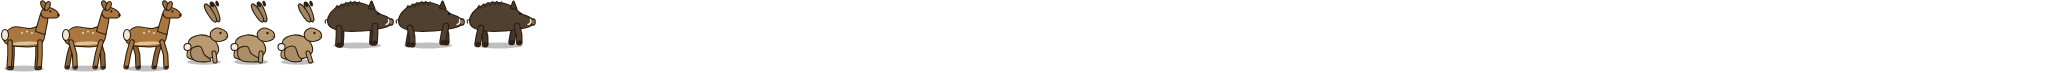
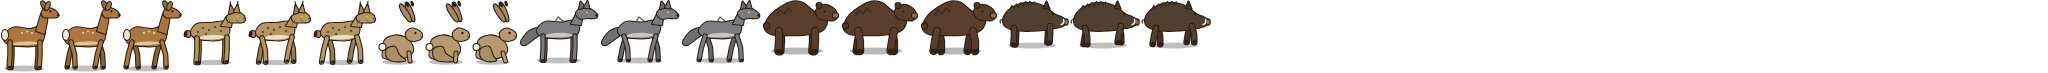
m15: wolf, bear and lynx sprites (phase 23e, art)

Changed region(s): [[0.0625, 0.0, 0.5938, 0.9041]]

diff --git a/art/src/animals/animals.ts b/art/src/animals/animals.ts
@@ -1,8 +1,8 @@
-/** Deer, boar and hare in profile, facing east, with a four-frame walk. */
+/** Deer, boar, hare, and the three hunters (wolf, bear, lynx) in profile, facing east, with a four-frame walk. */
 import { at, ell, INK, limb, poly, shade, shape, smooth, stroke, type Pt } from '../lib/draw.ts';
 
-export type AnimalKind = 'deer' | 'boar' | 'hare';
-export const ANIMAL_KINDS: readonly AnimalKind[] = ['deer', 'boar', 'hare'];
+export type AnimalKind = 'deer' | 'boar' | 'hare' | 'wolf' | 'bear' | 'lynx';
+export const ANIMAL_KINDS: readonly AnimalKind[] = ['deer', 'boar', 'hare', 'wolf', 'bear', 'lynx'];
 
 export function paintAnimal(kind: AnimalKind, frame: number, walking: boolean): string {
   const sw = walking ? [0, 1, 0, -1][frame] : 0;
@@ -58,6 +58,55 @@ export function paintAnimal(kind: AnimalKind, frame: number, walking: boolean): 
     out.push(ell(68.5, 52, 1.1, 1.2, INK));
     out.push(ell(74, 55.6, 0.9, 0.7, '#6b4a3a'));
     out.push(ell(35.5, 66, 3, 3, '#f3ece0', line));
+  }
+  if (kind === 'wolf') {
+    const col = '#7b7d80', belly = '#c9c7c0';
+    out.push(ell(48, 84.5, 22, 3, 'rgba(0,0,0,0.25)'));
+    out.push(legs([[34, 60], [62, 60]], 24, 3.2, col, true, 17));
+    // The brush, carried low.
+    out.push(shape(smooth([[27, 52], [17, 56], [10, 66], [14, 69], [24, 62], [30, 57]]), shade(col, 0.9), line));
+    out.push(shape(smooth([[26, 54], [34, 46], [50, 46.5], [62, 44.5], [68, 49], [66, 58], [56, 62], [40, 62], [30, 60]]), col, line));
+    out.push(shape(smooth([[34, 60.5], [48, 61.5], [62, 59.5], [54, 57], [40, 57.5]]), belly));
+    out.push(stroke('M44,46L47,41L52,45', shade(col, 0.7), 1.3));
+    out.push(shape(poly([[60, 48], [66, 36], [72, 36.5], [70, 49]]), col, line));
+    out.push(shape(smooth([[65, 37], [72, 31], [80, 33.5], [86, 38.5], [84.5, 42], [76, 42], [69, 42.5]]), col, line));
+    out.push(shape(poly([[68, 33], [69.5, 25.5], [74, 31.5]]), shade(col, 0.85), line));
+    out.push(shape(poly([[73, 31.5], [76.5, 25], [78.5, 32.5]]), shade(col, 0.95), line));
+    out.push(ell(76, 36.4, 1, 0.9, '#e8c14a'));
+    out.push(ell(85.5, 39.4, 1.3, 1.1, INK));
+    out.push(legs([[32, 60], [64, 60]], 24, 3.2, col, false, 17));
+  }
+  if (kind === 'bear') {
+    const col = '#5a3e2b';
+    out.push(ell(50, 84, 26, 3.6, 'rgba(0,0,0,0.28)'));
+    out.push(legs([[34, 64], [66, 64]], 20, 6.2, col, true, 11));
+    out.push(shape(smooth([[18, 62], [22, 50], [34, 40], [46, 34.5], [56, 36], [66, 44], [76, 49], [80, 55], [74, 64], [56, 68], [36, 68], [24, 67]]), col, line));
+    out.push(stroke('M30,48L33,43L37,47L41,41L45,45', shade(col, 0.72), 1.5));
+    out.push(shape(smooth([[69, 44], [76, 38], [86, 41], [90, 48], [87, 53], [78, 53], [72, 51]]), col, line));
+    out.push(ell(88.5, 48.5, 2.6, 2.3, '#8b6f55', line));
+    out.push(ell(72, 38.5, 2.4, 2.4, shade(col, 0.9), line));
+    out.push(ell(77.5, 44.5, 1, 0.9, INK));
+    out.push(ell(19.5, 59, 2.6, 2.6, shade(col, 0.9), line));
+    out.push(legs([[32, 64], [68, 64]], 20, 6.2, col, false, 11));
+  }
+  if (kind === 'lynx') {
+    const col = '#b69660', belly = '#ece0c4';
+    out.push(ell(48, 84.5, 18, 2.8, 'rgba(0,0,0,0.25)'));
+    out.push(legs([[34, 60], [60, 59]], 24, 3.6, col, true, 15));
+    out.push(shape(smooth([[26, 55], [22, 53], [20, 57], [24, 59]]), shade(col, 0.9), line));
+    out.push(ell(20.5, 56, 1.8, 3.3, '#2a2019', null, 10));
+    out.push(shape(smooth([[26, 54], [32, 46], [46, 45], [58, 43.5], [64, 48], [63, 57], [54, 62], [40, 62], [30, 60]]), col, line));
+    out.push(shape(smooth([[34, 60.5], [48, 61.5], [60, 59], [52, 57], [40, 57.5]]), belly));
+    for (const [x, y] of [[38, 50], [44, 52], [50, 49], [41, 56], [56, 53], [33, 54]]) out.push(ell(x, y, 1.3, 1.3, shade(col, 0.55)));
+    out.push(shape(poly([[56, 48], [62, 38], [68, 38.5], [66, 49]]), col, line));
+    out.push(shape(smooth([[62, 39], [68, 34], [76, 35.5], [80, 40.5], [78, 44], [70, 44.5], [64, 44]]), col, line));
+    out.push(shape(poly([[64, 36], [65.5, 27], [69.5, 34]]), shade(col, 0.88), line));
+    out.push(shape(poly([[69, 34], [72.5, 26.5], [74.5, 34.5]]), shade(col, 0.95), line));
+    out.push(stroke('M65.5,27.8L65.2,23.8', INK, 1.1) + stroke('M72.4,27.2L73,23.4', INK, 1.1));
+    out.push(stroke('M71,41.5L75,45.5', shade(col, 0.6), 1) + stroke('M65,42L62,46.5', shade(col, 0.6), 1));
+    out.push(ell(72, 38.4, 1, 0.9, '#d9b340'));
+    out.push(ell(79.2, 40.6, 1.1, 0.9, '#6b4a3a'));
+    out.push(legs([[32, 60], [62, 59]], 24, 3.6, col, false, 15));
   }
   return out.join('');
 }

diff --git a/tools/art/sheet-page.ts b/tools/art/sheet-page.ts
@@ -149,7 +149,7 @@ function person(over: AspectOver, label: string, row: HTMLElement): void {
 // ---- animals
 {
   const row = section('animals', 'Animals');
-  for (const k of ['deer', 'boar', 'hare']) {
+  for (const k of ['deer', 'boar', 'hare', 'wolf', 'bear', 'lynx']) {
     for (const p of ['idle', 'w0', 'w1', 'w2', 'w3']) {
       const [c, ctx] = canvas(144, 144);
       atlas.drawAsset(ctx, 'animals', `a/${k}/E/${p}`, 0, 0, 1.5);

diff --git a/docs/changelog.md b/docs/changelog.md
@@ -1,4 +1,14 @@
 #
+## 2026-10-02 — M15 fase 23e (arte): lobo, oso y lince
+
+Tres sprites nuevos en `art/src/animals/animals.ts` (perfil al este, cuatro
+cuadros de marcha y uno en reposo, como los demás), regenerados con
+`npm run art:build` y revisados en `npm run art:sheet`, cuya sección «animals»
+tenía las tres especies fijas y ahora recorre las seis. El lobo es gris,
+esbelto y de cola caída; el oso, grande y pardo, con joroba; el lince, leonado
+con manchas, orejas con pincel y rabo corto. Aún no están en `SPECIES`: entran
+en el commit siguiente, con la pasada que los hace aparecer.
+
 ## 2026-10-02 — M15 fases 23c y 23d: los herbívoros pastan y se reproducen
 
 **23c.** `Animal.fed` (0-1). Cada movimiento (48 al día) un animal come un
